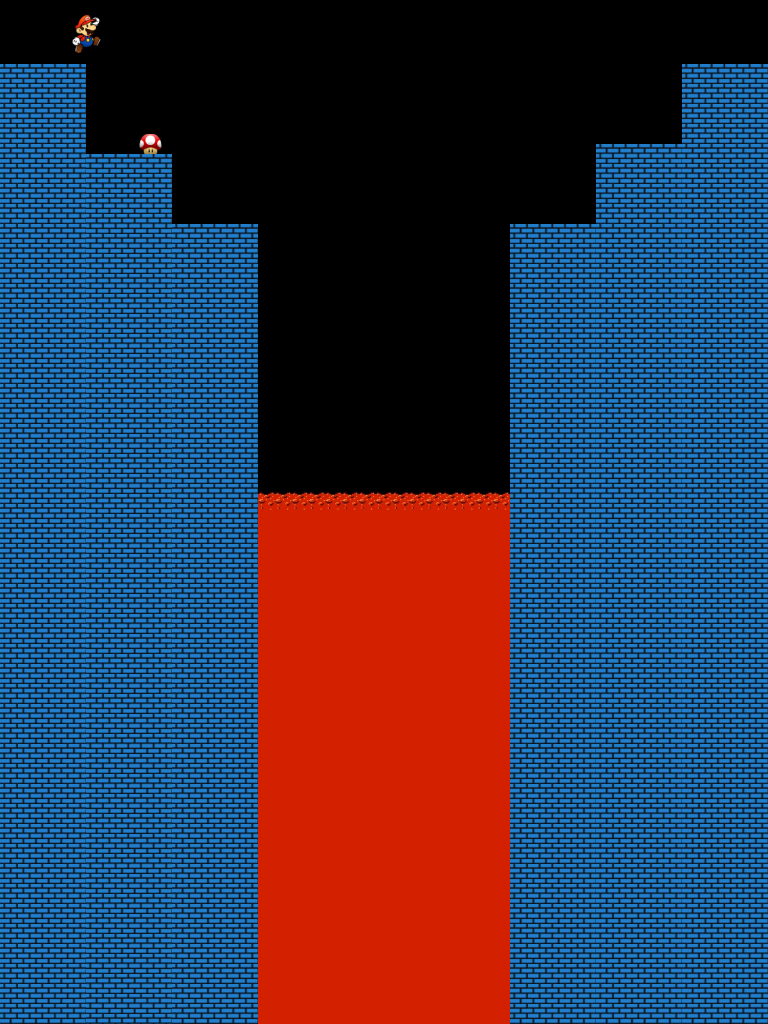
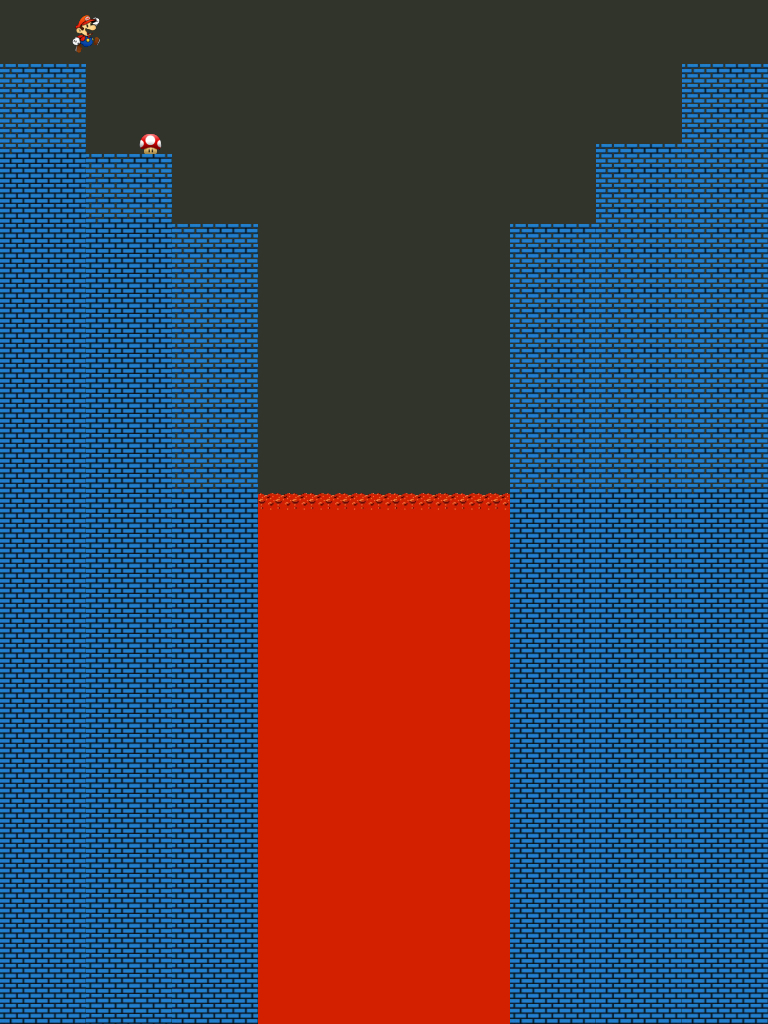
replace bg img

Changed region(s): [[0.0, 0.0, 1.0, 0.5]]

diff --git a/assets/css/style.css b/assets/css/style.css
@@ -621,7 +621,7 @@ footer {
     }
 
     .formbg {
-        background-image: url("../images/warp-bg.png");
+        background-image: url("../images/desktop-bg.png");
         background-repeat: no-repeat;
         background-size: cover;
        
